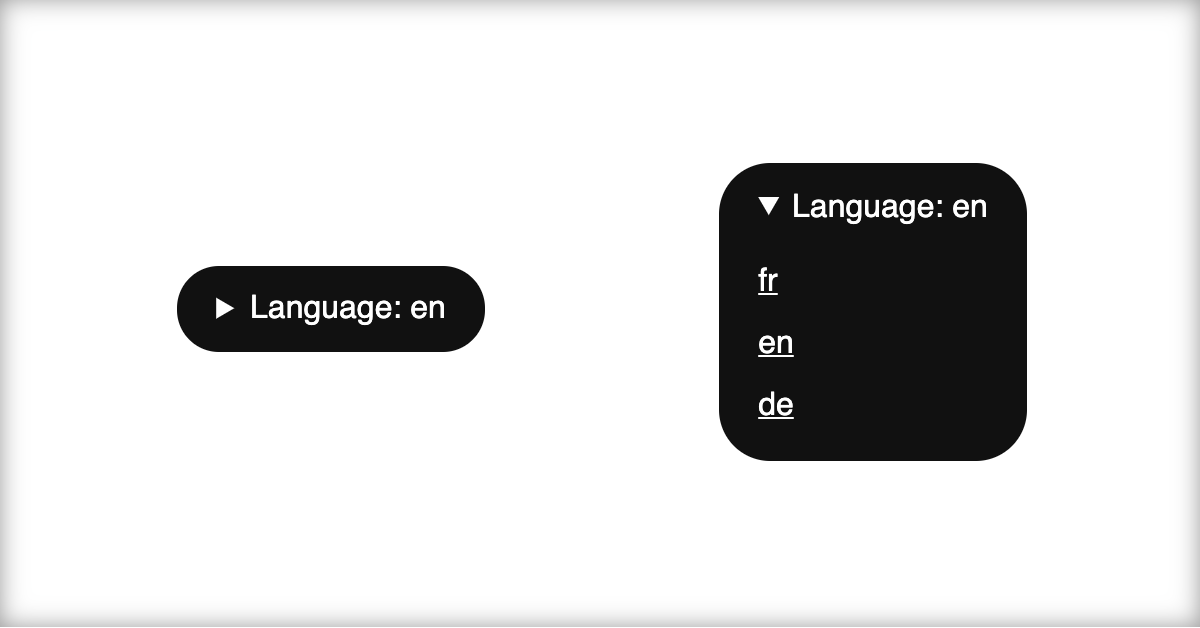
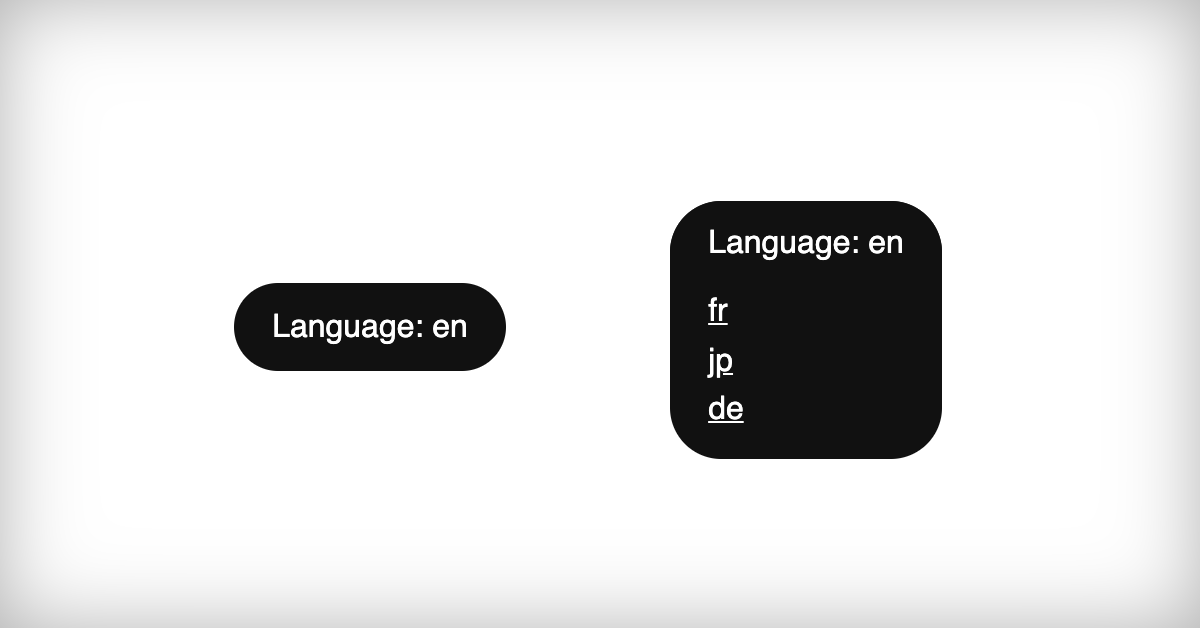
Update toggle method

diff --git a/_posts/2020-02-01-multi-language-select.md b/_posts/2020-02-01-multi-language-select.md
@@ -35,16 +35,21 @@ Further details on applying this kind of meta information to your web pages can 
 
 Let's circle back to the original point of this tutorial: creating a language select. I've approached this in the same fashion I do most interactions - I'm using JavaScript to enhance what already exists on the page.
 
-In this instance, I'm using the existing `<link>` elements that state the alternate translations for the page to generate a list of links that'll take the user to another translation of that page. Rather than give a full breakdown of the code, I've provided an annotated version below. If you're looking for a version without the comments, you can [check out this CodePen](https://codepen.io/daviddarnes/pen/QWwzePz?editors=1010).
+In this instance, I'm using the existing `<link>` elements that state the alternate translations for the page to generate a list of links that'll take the user to another translation of that page. Rather than give a full breakdown of the code, I've provided an annotated version below. [Check out this CodePen](https://codepen.io/daviddarnes/pen/QWwzePz?editors=1010) to see everything in action, including an accessible method of toggling the language select (thanks [Andy Bell](https://hankchizljaw.com/wrote/a-progressive-disclosure-component/)).
 
 ```html
+<head>
+  <link rel="alternate" hreflang="fr" href="https://site.com/fr/" />
+  <link rel="alternate" hreflang="jp" href="https://site.com/jp/" />
+  <link rel="alternate" hreflang="de" href="https://site.com/jp/" />
+</head>
 <!-- Details element in markup, ready for JavaScript -->
-<details data-language-select></details>
+<div data-language-select></div>
 ```
 
 ```javascript
 // Grab the details element that will be the language select
-const langSelect = document.querySelector("details[data-language-select]");
+const langSelect = document.querySelector("[data-language-select]");
 
 // Grab all the alternate translations as an array
 const translations = [...document.querySelectorAll("head [hreflang]")];
@@ -65,7 +70,7 @@ if (langSelect && translations.length) {
   // Insert a summary showing the current language
   // and insert the links into a unordered list
   langSelect.innerHTML = `
-    <summary>Language: ${document.documentElement.lang}</summary>
+    <button type="button" aria-expanded="false">Language: ${document.documentElement.lang}</button>
     <ul>${links}</ul>
   `;
 }
